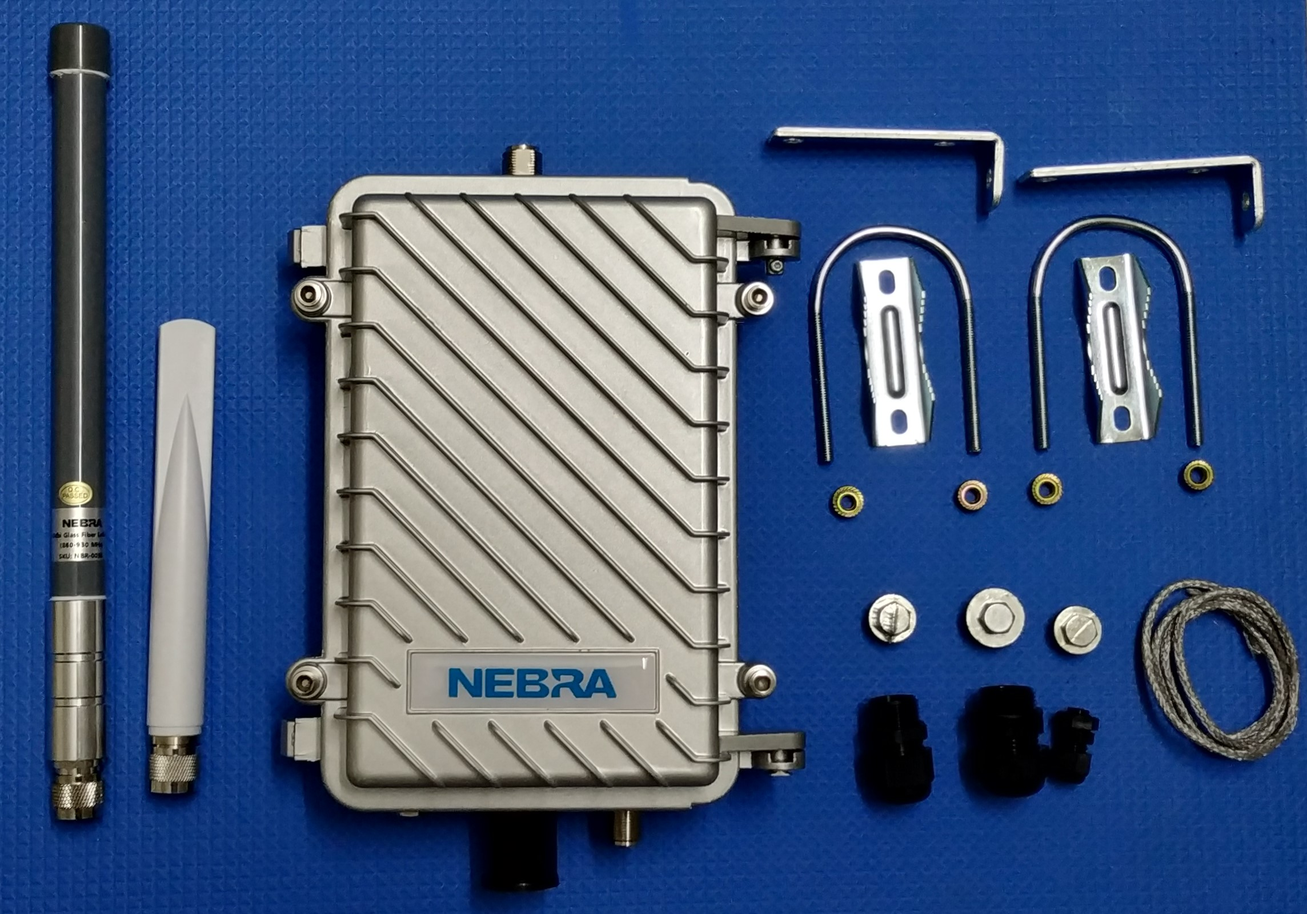
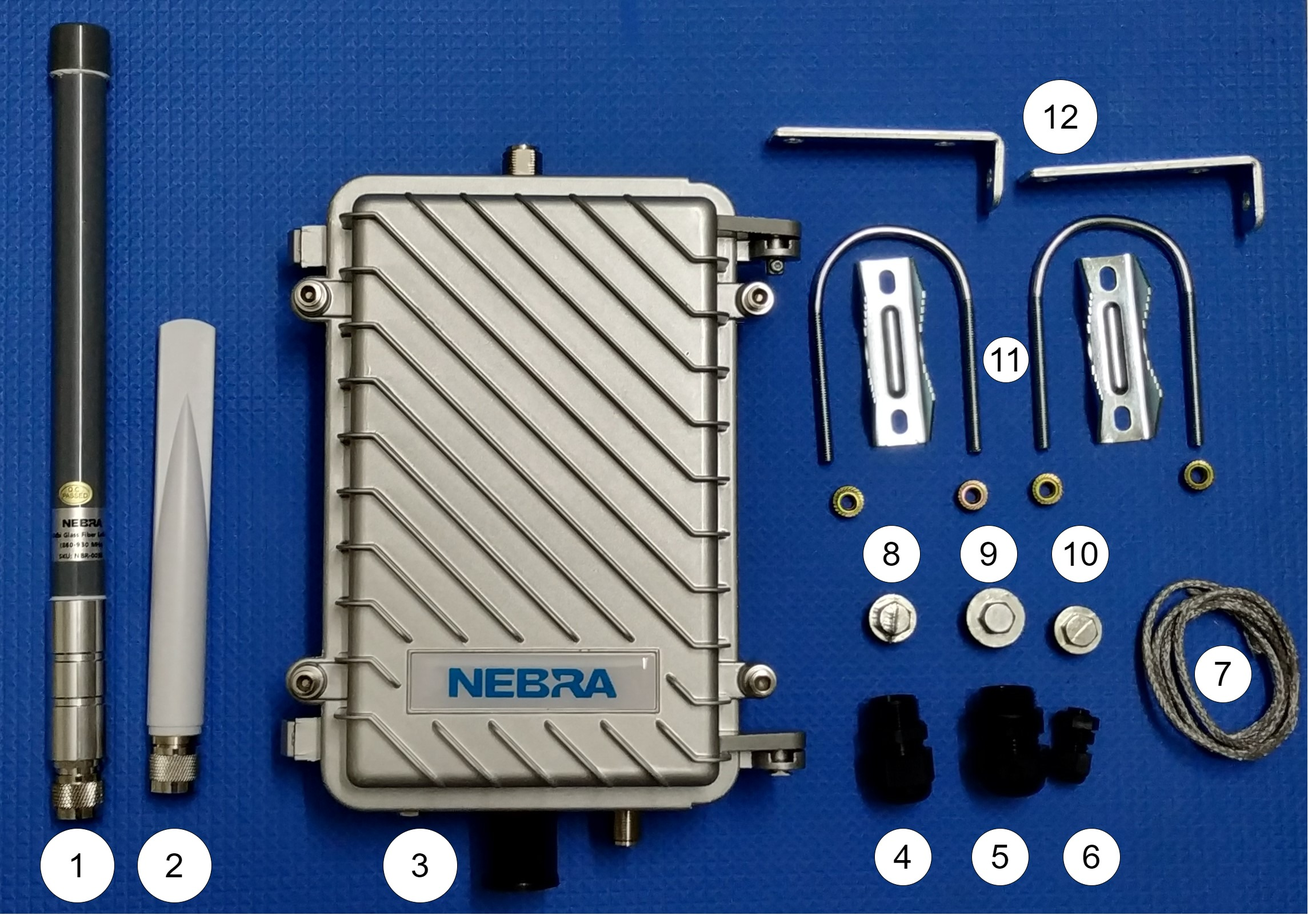
updated package contents

diff --git a/docs/outdoor-hotspot/overview.md b/docs/outdoor-hotspot/overview.md
@@ -28,18 +28,23 @@ The Nebra Outdoor Helium Hotspot is an ideal solution for providing great Helium
 
 ![Indoor Hotspot Included](../media/photos/outdoor/outdoor_package.jpg ':size=800')
 
-* The Nebra Helium Outdoor Hotspot
-* 3 dBi N-Type glass fiber antenna
-* N-type WiFi antenna
-* Ethernet gland cover end
-* Sealing string
-* M20 general cable gland
-* M10 general cable gland
-* Spare blanking plugs (2 x N-type, 1 x M20)
-* 2 x L shaped mounting brackets
-* 2 pairs of Z clamp brackets (for pole mounting)
-* 2 x serial number QR code stickers
-* 2 x Nebra stickers
+
+1. 3 dBi N-Type Glass Fiber Antenna
+2. WiFi Antenna 
+3. Nebra Helium Outdoor Hotspot
+4. M20 General Cable Gland
+5. M22 General Cable Gland
+6. M10 General Cable Gland
+7. Sealing String
+8. Spare Blanking Plugs N-type
+9. Spare Blanking Plugs N-type
+10. Spare Blanking Plugs M20
+11. L Shaped Mounting Brackets 2 x L
+12. Z clamp Brackets x 2 (for pole mounting)
+13. Serial Number QR Code Stickers x 2
+14. Nebra Stickers x 2
+
+
 
 ## Block Diagram
 
